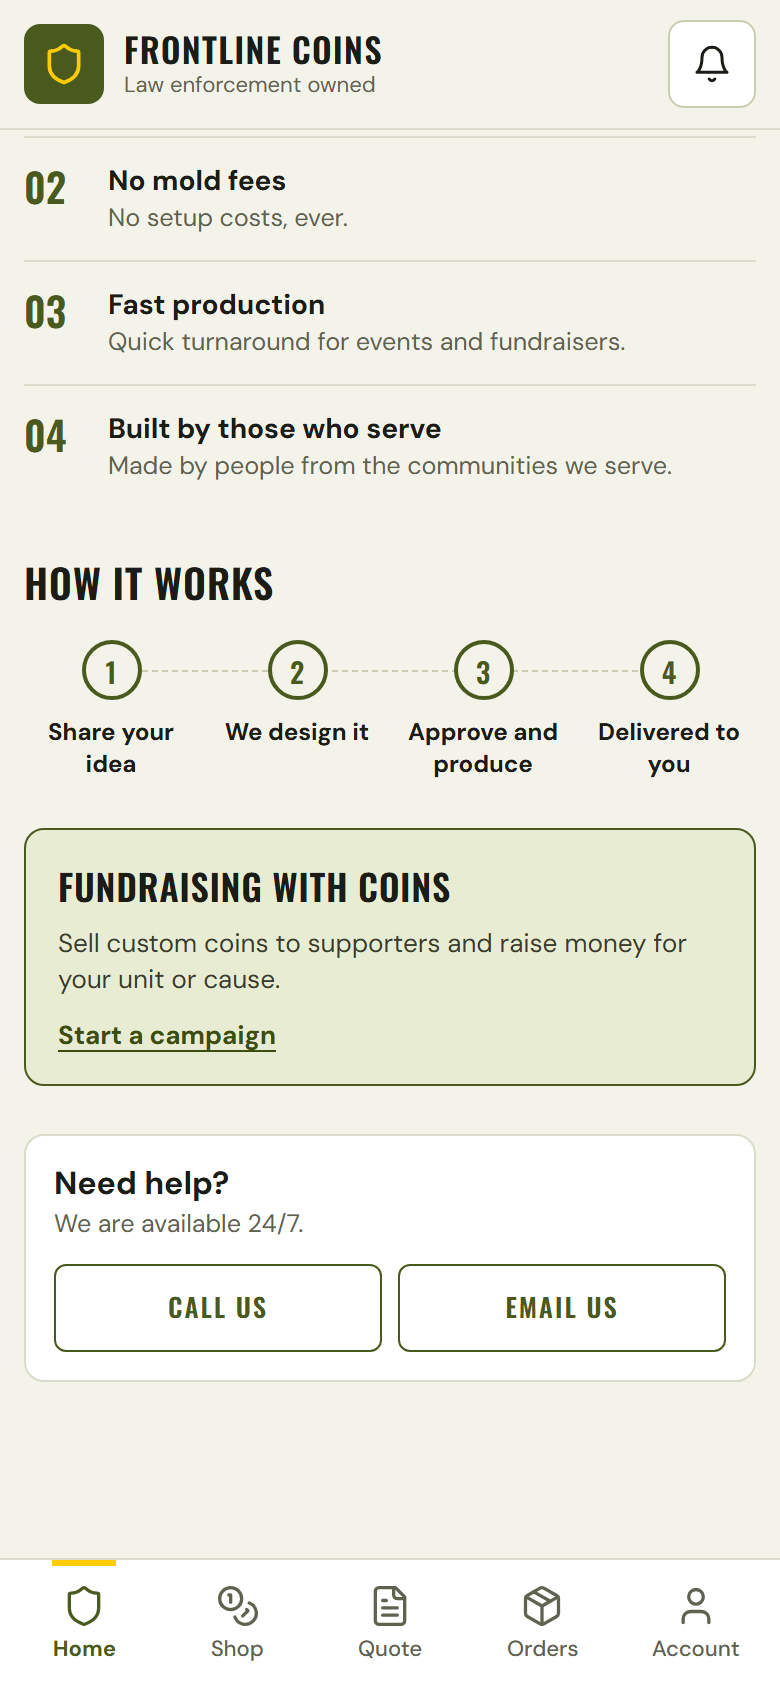
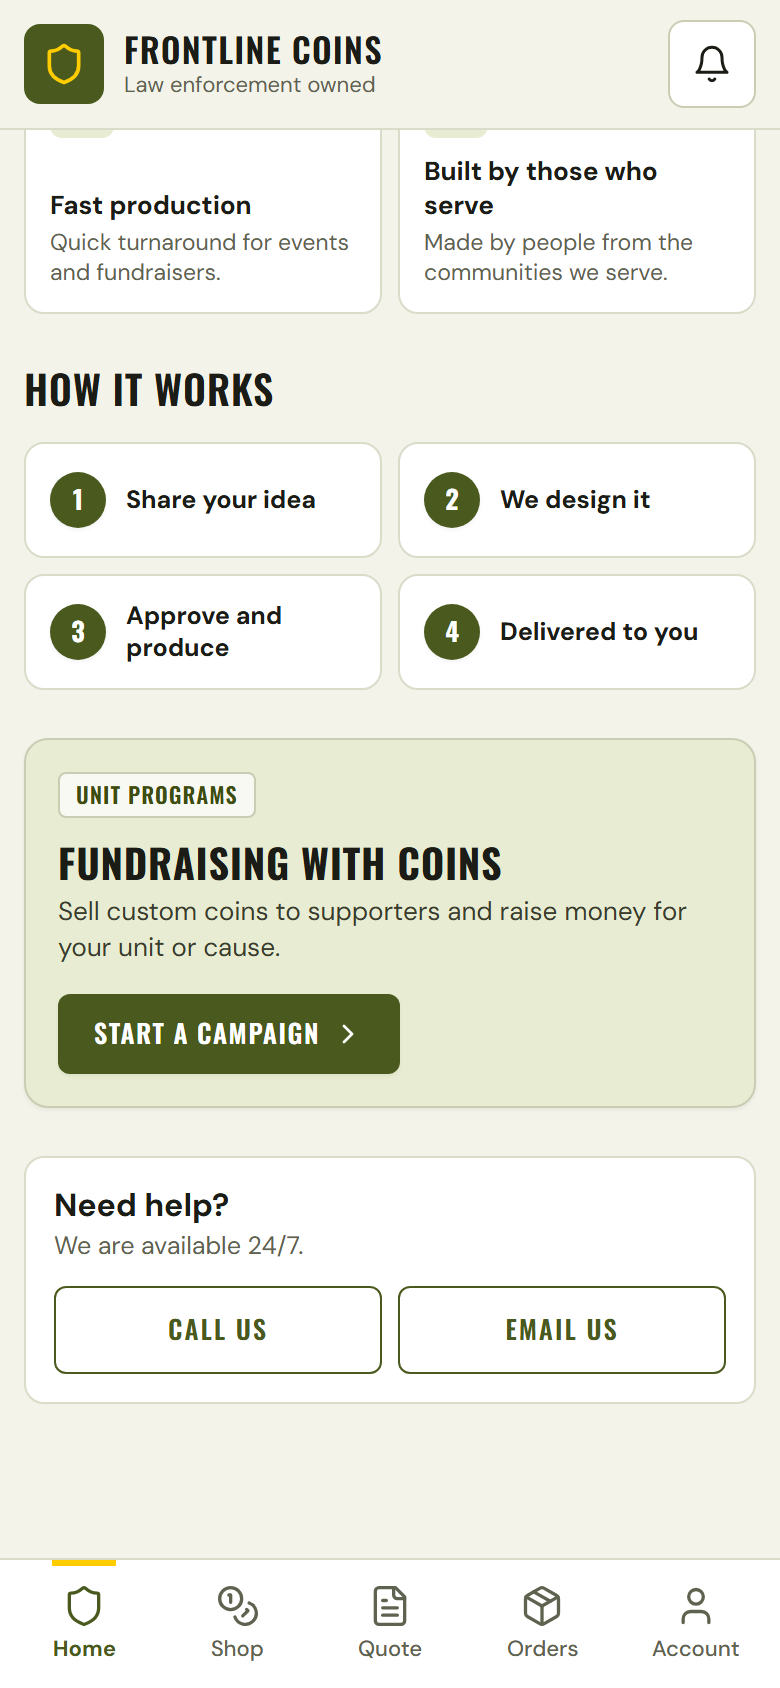
third commit

diff --git a/src/features/home/HomeScreen.tsx b/src/features/home/HomeScreen.tsx
@@ -1,6 +1,6 @@
 import React, { useState } from 'react';
 import { useNavigate } from 'react-router-dom';
-import { FileText, Package, RotateCcw } from 'lucide-react';
+import { FileText, Package, RotateCcw, ChevronRight } from 'lucide-react';
 import { HeaderCard } from '../../components/domain/HeaderCard';
 import { StarTicker } from '../../components/layout/StarTicker';
 import { ActiveOrderCard } from '../../components/domain/ActiveOrderCard';
@@ -185,26 +185,28 @@ export const HomeScreen: React.FC = () => {
         </div>
       </section>
 
-      {/* 7. Why Frontline: title with 1px #D9DCC8 divider between rows */}
+      {/* 7. Why Frontline: Clean 2x2 individual cards with prominent olive number badges */}
       <section className="pt-[24px] px-[12px] flex flex-col gap-[12px]">
         <h2 className="font-display font-semibold text-[20px] leading-[26px] uppercase tracking-[0.02em] text-[#1B1C16]">
           Why Frontline
         </h2>
 
-        <div className="border-t border-[#D9DCC8] flex flex-col">
+        <div className="grid grid-cols-2 gap-[8px]">
           {whyItems.map((item) => (
             <div
               key={item.num}
-              className="py-[12px] flex items-start gap-[14px] border-b border-[#D9DCC8] last:border-b-0"
+              className="bg-white border border-[#D9DCC8] rounded-[10px] p-[12px] flex flex-col justify-between min-h-[116px] hover:border-[#4A5A1E] transition-colors"
             >
-              <span className="w-[28px] shrink-0 font-display font-semibold text-[20px] leading-[24px] text-[#4A5A1E]">
-                {item.num}
-              </span>
-              <div className="flex flex-col">
-                <h4 className="font-sans font-bold text-[14px] leading-[18px] text-[#1B1C16]">
+              <div className="w-[32px] h-[32px] rounded-[6px] bg-[#E7ECD2] flex items-center justify-center shrink-0">
+                <span className="font-display font-bold text-[16px] text-[#4A5A1E] leading-none">
+                  {item.num}
+                </span>
+              </div>
+              <div className="mt-2">
+                <h4 className="font-sans font-bold text-[13px] leading-[17px] text-[#1B1C16]">
                   {item.title}
                 </h4>
-                <p className="font-sans text-[12.5px] leading-[17px] text-[#5E6350] mt-[2px]">
+                <p className="font-sans text-[11.5px] leading-[15px] text-[#5E6350] mt-[3px]">
                   {item.description}
                 </p>
               </div>
@@ -213,44 +215,59 @@ export const HomeScreen: React.FC = () => {
         </div>
       </section>
 
-      {/* 8. How It Works: title, then 4 equal columns with 6px gap & connector line */}
-      <section className="pt-[24px] px-[12px] flex flex-col gap-[16px]">
+      {/* 8. How It Works: Card-based stepper with circular badges */}
+      <section className="pt-[24px] px-[12px] flex flex-col gap-[14px]">
         <h2 className="font-display font-semibold text-[20px] leading-[26px] uppercase tracking-[0.02em] text-[#1B1C16]">
           How it works
         </h2>
 
-        <div className="grid grid-cols-4 gap-[6px] relative">
-          {/* Dashed connector line behind the rings */}
-          <div className="absolute top-[15px] left-[12%] right-[12%] border-t border-dashed border-[#C9CDB4] pointer-events-none z-0" />
+        <div className="relative">
+          {/* Subtle connecting line across cards on larger screens */}
+          <div className="hidden sm:block absolute top-1/2 left-[8%] right-[8%] -translate-y-1/2 border-t-2 border-dashed border-[#D9DCC8] pointer-events-none z-0" />
 
-          {howItWorksSteps.map((step, idx) => (
-            <div key={step} className="flex flex-col items-center relative z-10">
-              <div className="w-[30px] h-[30px] rounded-full border-2 border-[#4A5A1E] bg-[#F4F3EA] flex items-center justify-center font-display font-semibold text-[14px] text-[#4A5A1E] shrink-0">
-                {idx + 1}
+          <div className="grid grid-cols-2 sm:grid-cols-4 gap-[8px] relative z-10">
+            {howItWorksSteps.map((step, idx) => (
+              <div
+                key={step}
+                className="bg-white border border-[#D9DCC8] rounded-[10px] p-[12px] flex sm:flex-col items-center sm:text-center gap-[10px] sm:gap-[8px] hover:border-[#4A5A1E] transition-colors min-h-[58px]"
+              >
+                <div className="w-[28px] h-[28px] rounded-full bg-[#4A5A1E] text-white flex items-center justify-center font-display font-bold text-[13px] shrink-0 shadow-sm">
+                  {idx + 1}
+                </div>
+                <span className="font-sans font-bold text-[12.5px] leading-[16px] text-[#1B1C16]">
+                  {step}
+                </span>
               </div>
-              <span className="font-sans font-bold text-[12px] leading-[16px] text-center text-[#1B1C16] mt-[8px]">
-                {step}
-              </span>
-            </div>
-          ))}
+            ))}
+          </div>
         </div>
       </section>
 
-      {/* 9. Fundraising Card */}
+      {/* 9. Fundraising with Coins: Prominent promotional card with distinct CTA */}
       <section className="pt-[24px] px-[12px]">
-        <div className="bg-[#E7ECD2] border border-[#4A5A1E] rounded-[10px] p-[16px] flex flex-col gap-[8px]">
-          <h3 className="font-display font-semibold text-[18px] leading-[24px] uppercase tracking-[0.02em] text-[#1B1C16]">
-            Fundraising with coins
-          </h3>
-          <p className="font-sans text-[13px] leading-[18px] text-[#3A3D2E]">
-            Sell custom coins to supporters and raise money for your unit or cause.
-          </p>
+        <div className="bg-[#E7ECD2] border border-[#C9CDB4] rounded-[12px] p-[16px] flex flex-col gap-[10px] relative overflow-hidden shadow-subtle">
+          <div className="flex items-center justify-between w-full">
+            <span className="font-display font-semibold text-[11px] uppercase tracking-wider text-[#3D4C11] bg-white/70 border border-[#C9CDB4] px-2 py-0.5 rounded-[4px]">
+              Unit Programs
+            </span>
+          </div>
+
+          <div className="flex flex-col gap-[4px]">
+            <h3 className="font-display font-bold text-[20px] leading-[24px] uppercase tracking-[0.02em] text-[#1B1C16]">
+              Fundraising with Coins
+            </h3>
+            <p className="font-sans text-[13px] leading-[18px] text-[#3A3D2E]">
+              Sell custom coins to supporters and raise money for your unit or cause.
+            </p>
+          </div>
+
           <button
             type="button"
             onClick={() => navigate('/quote')}
-            className="font-sans font-bold text-[13px] leading-[17px] text-[#3D4C11] underline underline-offset-[3px] hover:text-[#4A5A1E] transition-colors cursor-pointer text-left self-start mt-[2px]"
+            className="h-[40px] px-[18px] rounded-[6px] bg-[#4A5A1E] text-white font-display font-semibold text-[13px] uppercase tracking-[0.06em] hover:bg-[#3D4C11] active:translate-y-[1px] transition-all flex items-center justify-center gap-[6px] self-start shadow-sm cursor-pointer mt-1"
           >
-            Start a campaign
+            <span>Start a campaign</span>
+            <ChevronRight className="w-4 h-4" />
           </button>
         </div>
       </section>
